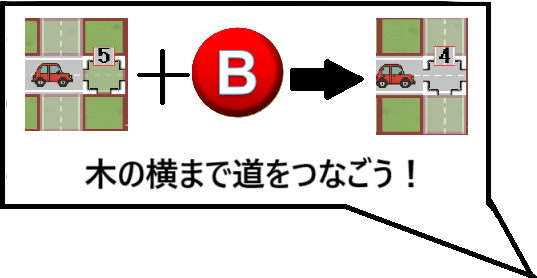
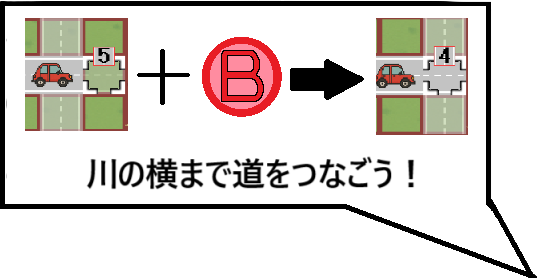
チュートリアル終了(願望)

Changed region(s): [[0.3575, 0.0863, 0.5363, 0.4317], [0.149, 0.5755, 0.2384, 0.6906]]

diff --git a/DxLib_TGS2025/Src/Scene/InGame/InGameScene.cpp b/DxLib_TGS2025/Src/Scene/InGame/InGameScene.cpp
@@ -793,7 +793,7 @@ void TutorialAchievements(const Cursor* cursor, const Rock* rock, const Wood* wo
 		}
 		break;
 	case 5:
-		if (stage->array[6][4] == 4)
+		if (stage->array[7][4] == 4)
 		{
 			ingame.tutorial_log_num++;
 			ingame.tutorial_achievements++;
